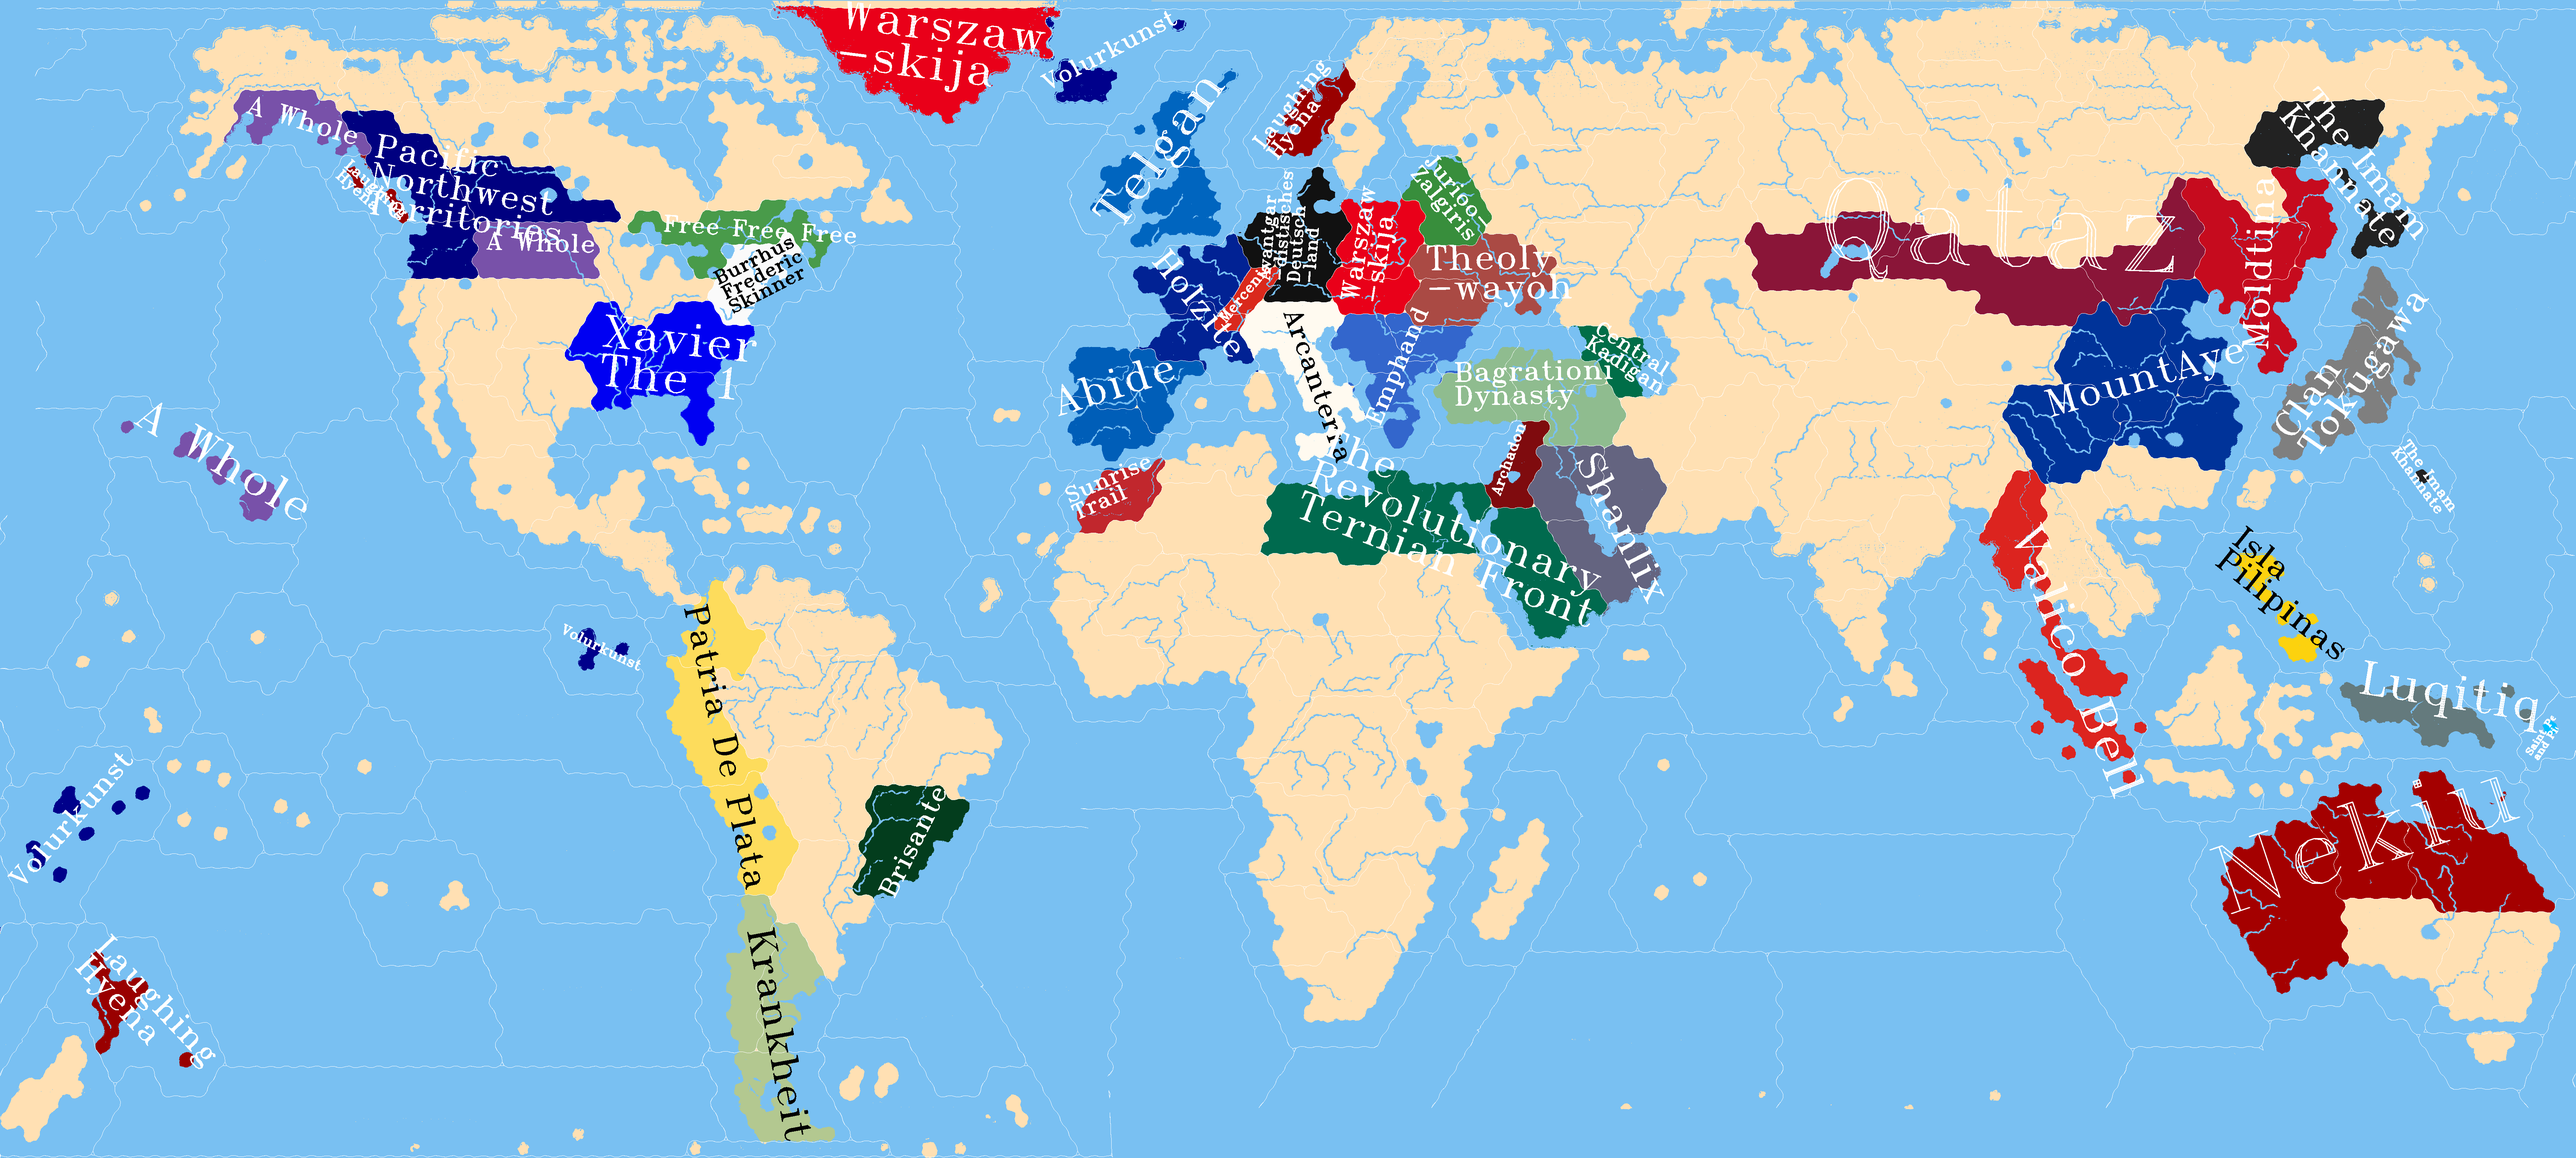
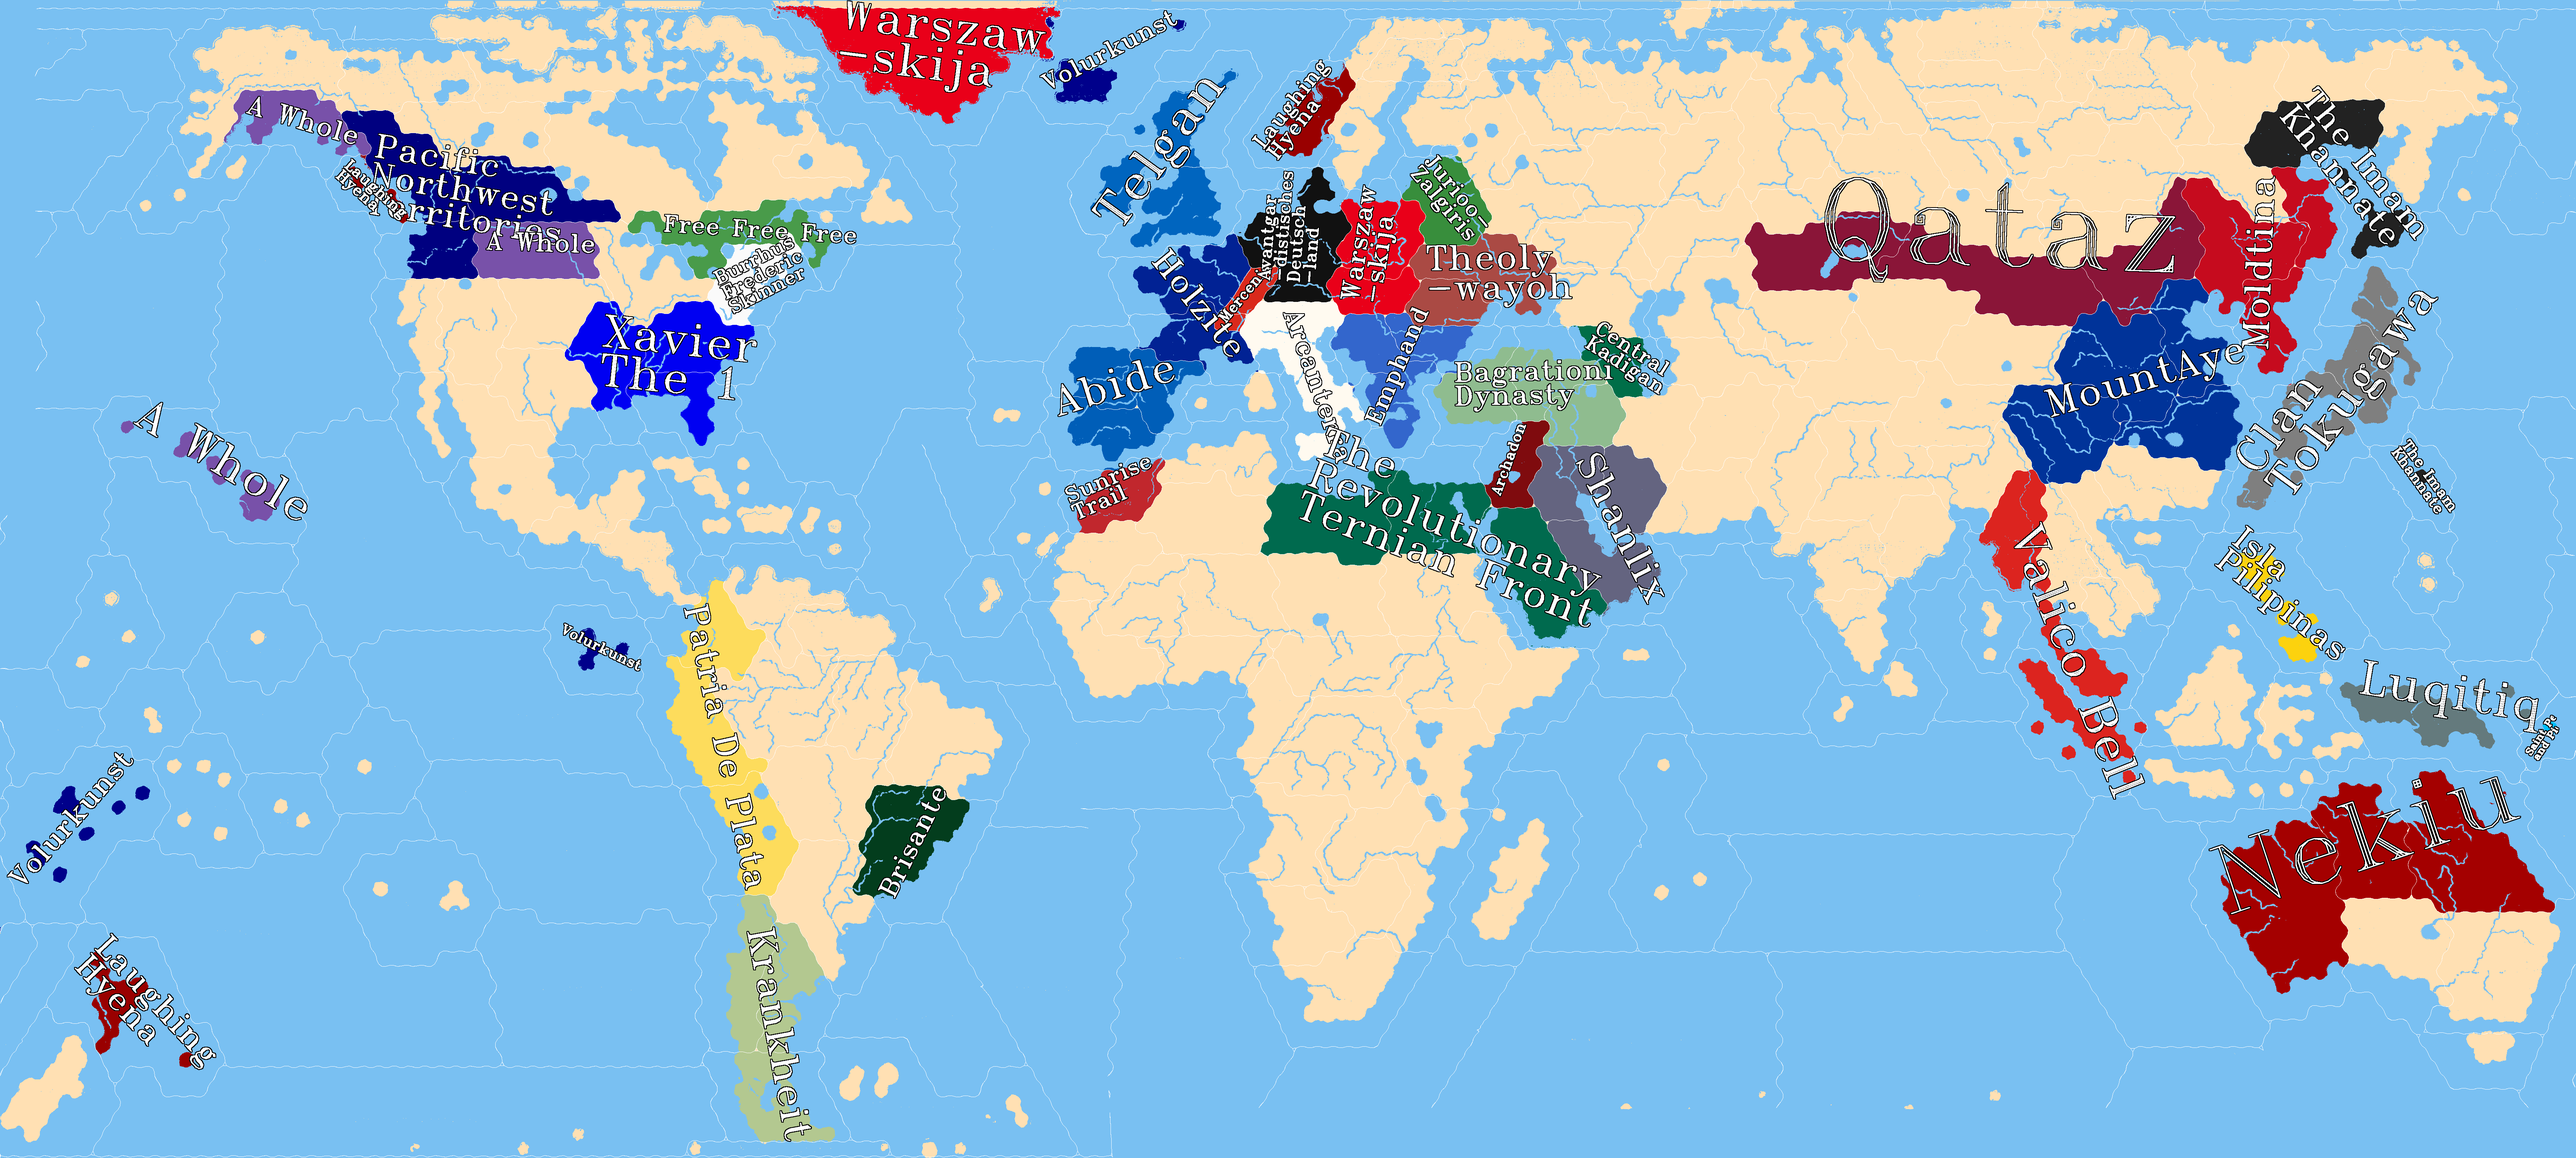
improved name printing

diff --git a/scripts/paint_map.py b/scripts/paint_map.py
@@ -40,7 +40,6 @@ named[(borders>0)] = np.array([255,255,255])
 for n,name in enumerate(registered["STATE"].unique()):
     entries = registered.loc[registered["STATE"].eq(name)]
     nation_color = hex2color(entries.loc[entries.index[0],"COLOR"])
-    name_color = np.array([0,0,0]) if np.dot(nation_color,np.array([0.299,0.587,0.114]))/255>0.70 else np.array([255,255,255])
     nation_territories = np.all(mask_nations==nation_color,axis=-1)
     # Because we don't know if their territories are connected:
     nation_territories_label = measure.label(nation_territories)
@@ -70,7 +69,7 @@ for n,name in enumerate(registered["STATE"].unique()):
             xw = int(x + scale * name_height * 1.2 * (w - (n_words-1)/2) * np.sin(angle/180*np.pi)) 
             yw = int(y + scale * name_height * 1.2 * (w - (n_words-1)/2) * np.cos(angle/180*np.pi)) 
             
-            text = cv2.putText(
+            text_core = cv2.putText(
                                img=np.zeros_like(base,dtype=np.uint8), # Image.
                                text=word,	                           # Text string to be drawn.
                                org=(xw,yw),	                           # Bottom-left corner of the text string in the image.
@@ -82,8 +81,11 @@ for n,name in enumerate(registered["STATE"].unique()):
                                bottomLeftOrigin=False,	               # When true, the image data origin is at the bottom-left corner. Otherwise, it is at the top-left corner.
                               )
             M = cv2.getRotationMatrix2D((xw,yw), angle, 1)
-            text = cv2.warpAffine(text, M, (text.shape[1], text.shape[0]))
-            named[(text>255/2)] = name_color
+            text_core = cv2.warpAffine(text_core, M, (text_core.shape[1], text_core.shape[0]))
+            text_core = (text_core>255/2)
+            text_edge = morphology.binary_dilation(text_core,footprint=np.ones((5,5)))
+            named[text_edge] = np.array([  0,  0,  0])
+            named[text_core] = np.array([255,255,255])
     print(f"TAGGING NAMES #{n+1}: {name}")
 
 io.imsave("latest.png",util.img_as_ubyte(named))
